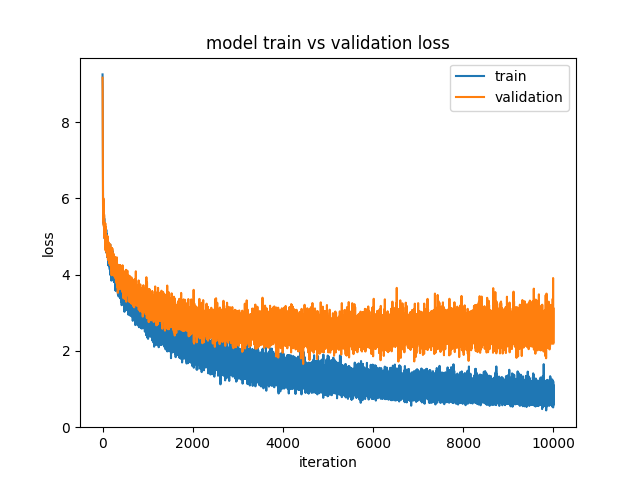
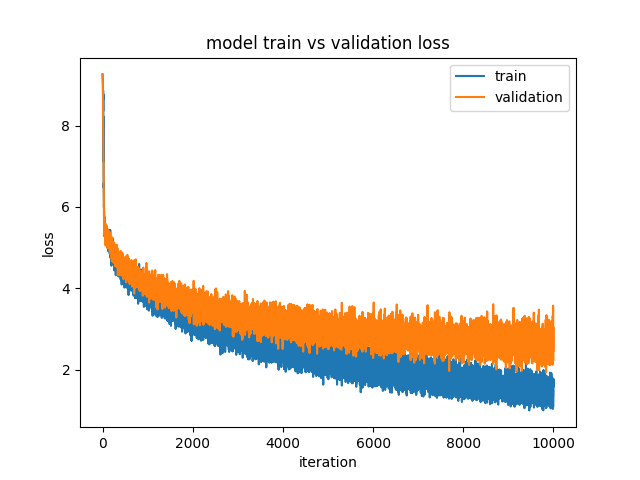
Kleine weitere Anpassungen am Logging

diff --git a/run_experiment.py b/run_experiment.py
@@ -27,6 +27,10 @@ if __name__ == '__main__':
     src_reversed = False
     limit = None
     trimming = False
+    #len_filter = [1, 10]
+    len_filter = None
+
+    voc_all = True
 
     cleaned_file = "%s-%s_cleaned" % (src_lang, trg_lang) + "_rude" if not exp_contraction else "%s-%s_cleaned" % (
         src_lang, trg_lang) + "_full"
@@ -40,16 +44,22 @@ if __name__ == '__main__':
         pairs = read_lines(os.path.join(start_root, DATA_DIR), FILENAME)
         pairs, path = preprocess_pipeline(pairs, cleaned_file, exp_contraction) #data/prepro/eng-deu_cleaned_full.pkl
 
-
     print("Sample from data:")
     print(random.choice(pairs))
+
+    if voc_all:
+        # build vocabularies based on all data set (test set included)
+        src_sents = [item[0] for item in pairs]
+        trg_sents = [item[1] for item in pairs]
 
     limit = 50000
 
     if limit:
         pairs = pairs[:limit]
 
-    train_set, val_set, test_set = split_data(pairs)
+    pairs = filter_pairs(pairs, len_tuple=len_filter)
+
+    train_set, val_set, test_set = split_data(pairs, seed=40)
 
     print("Data in train set:", len(train_set))
     print("Data in val set:", len(val_set))
@@ -59,9 +69,11 @@ if __name__ == '__main__':
     print("Building vocabularies...")
     train_data = train_set+val_set
 
-    # Build vocabularies based on dataset
-    src_sents = [item[0] for item in train_data]
-    trg_sents = [item[1] for item in train_data]
+
+    if voc_all is None:
+        # Build vocabularies based on train set
+        src_sents = [item[0] for item in train_data]
+        trg_sents = [item[1] for item in train_data]
 
     max_src_l = max_length(src_sents)
     max_trg_l = max_length(trg_sents)
@@ -86,13 +98,15 @@ if __name__ == '__main__':
     test_batches = [batch2TrainData(input_lang, output_lang, [random.choice(test_set) for _ in range(1)])
                         for _ in range(len(test_set))]
 
+    print("Test batches:", len(test_batches))
+
     # Configure models
     model_name = ''
     model_name += 'simple_nmt_model'+str(limit) if limit else 'simple_nmt_model_full'
     hidden_size = 512
-    encoder_n_layers = 2
-    decoder_n_layers = 2
-    batch_size = 64
+    encoder_n_layers = 1
+    decoder_n_layers = 1
+    batch_size = 128
     input_size = input_lang.num_words
     output_size = output_lang.num_words
     embedding_size = 512
@@ -108,10 +122,10 @@ if __name__ == '__main__':
     print(encoder)
     print(decoder)
 
-    clip = 1.0
+    clip = None
     teacher_forcing_ratio = 0.3
     learning_rate = 0.001 #0.0001
-    decoder_learning_ratio = 2.0 #5.0
+    decoder_learning_ratio = 1.0 #5.0
     n_iteration = 15000
     print_every = 100
     save_every = 500
@@ -150,15 +164,21 @@ if __name__ == '__main__':
             hf.write(model_name)
             hf.write("\nDirectory:\n")
             hf.write(str(directory))
-            hf.write("\n Number of samples:")
-            hf.write(str(len(pairs)))
-            hf.write("\n Max src length %s" % max_src_l)
-            hf.write("\n Max trg length %s" % max_trg_l)
-            hf.write("\n Learning rate: %s" % str(learning_rate))
-            hf.write("\nAverage validation loss:\n")
-            hf.write(str(val_loss))
-            hf.write("\nTest loss:")
-            hf.write(str(test_loss))
+            hf.write("\n Number of samples: %s" %str(len(pairs)))
+            if voc_all:
+                hf.write("\nVocabularies built on all dataset")
+            else:
+                hf.write("\nVocabularies built only on the train set")
+            hf.write("\nSource vocabulary: %s" % str(input_lang.num_words))
+            hf.write("\nTarget vocabulary: %s" % str(output_lang.num_words))
+            hf.write("\nMax src length %s" % max_src_l)
+            hf.write("\nMax trg length %s" % max_trg_l)
+            hf.write("\nLearning rate: %s" % str(learning_rate))
+            hf.write("\nBatch size: %s" % str(batch_size))
+            hf.write("\nEmbedding size: %s" % str(embedding_size))
+            hf.write("\nHidden size: %s" % str(hidden_size))
+            hf.write("\nAverage validation loss: %s" %str(val_loss))
+            hf.write("\nTest loss: %s" %str(test_loss))
             hf.write("\nTraining iterations:")
             hf.write(str(n_iteration))
             hf.write("\n Training duration:")
@@ -169,7 +189,7 @@ if __name__ == '__main__':
 
     print("Plotting results...")
     try:
-        plot_training_results(model_name, train_history, val_history, SAVE_DIR, FILENAME, decoder_n_layers, hidden_size,
+        plot_training_results(model_name, train_history, val_history, SAVE_DIR, FILENAME, decoder_n_layers, embedding_size, hidden_size,
                           live_show=False)
         print("Plots stored in %s" %SAVE_DIR)
 

diff --git a/experiment/train_eval.py b/experiment/train_eval.py
@@ -90,12 +90,13 @@ def train(input_variable, lengths, target_variable, mask, max_target_len, trg_le
             print_losses.append(mask_loss.item() * nTotal)
             n_totals += nTotal
 
-        # Clip gradients: gradients are modified in place
-    _ = torch.nn.utils.clip_grad_norm_(encoder.parameters(), clip)
-    _ = torch.nn.utils.clip_grad_norm_(decoder.parameters(), clip)
 
     # Perform backpropatation
     loss.backward()
+    if clip:
+        # Clip gradients: gradients are modified in place
+        _ = torch.nn.utils.clip_grad_norm_(encoder.parameters(), max_norm=clip)
+        _ = torch.nn.utils.clip_grad_norm_(decoder.parameters(), max_norm=clip)
 
     # Adjust model weights
     encoder_optimizer.step()
@@ -254,7 +255,8 @@ def trainIters(model_name, src_voc, tar_voc, train_pairs, val_pairs, encoder, de
         layers = encoder.n_layers
         # Save checkpoint
         if (iteration % save_every == 0):
-            directory = os.path.join(save_dir, model_name, corpus_name, '{}-{}_{}'.format(encoder_n_layers, decoder_n_layers, encoder.hidden_size))
+            directory = os.path.join(save_dir, model_name, corpus_name,
+                                     '{}-{}_{}-{}'.format(encoder_n_layers, decoder_n_layers, encoder.emb_size, encoder.hidden_size))
             if not os.path.exists(directory):
                 os.makedirs(directory)
             torch.save({
@@ -396,7 +398,7 @@ def eval_test(test_batches, encoder, decoder):
 
 #### Plot results
 
-def plot_training_results(modelname, train_history, val_history, save_dir, corpus_name, n_layers, hidden_size, live_show=False):
+def plot_training_results(modelname, train_history, val_history, save_dir, corpus_name, n_layers, embedding_size, hidden_size, live_show=False):
     """
     Plots training results
     :param modelname:
@@ -413,7 +415,7 @@ def plot_training_results(modelname, train_history, val_history, save_dir, corpu
 
 
     directory = os.path.join(save_dir, "plots", modelname, corpus_name,
-                             '{}-{}_{}'.format(n_layers, n_layers, hidden_size))
+                             '{}-{}_{}-{}'.format(n_layers, n_layers, embedding_size, hidden_size))
 
     if not os.path.isdir(directory):
         os.makedirs(directory)

diff --git a/utils/utils.py b/utils/utils.py
@@ -78,7 +78,7 @@ def maskNLLLoss(inp, target, mask):
     return loss, nTotal.item()
 
 
-def split_data(data, test_ratio=0.2):
+def split_data(data, test_ratio=0.2, seed=40):
     """
     Splits data into training, validation and test set.
     Train set: 70%
@@ -92,7 +92,7 @@ def split_data(data, test_ratio=0.2):
     num_samples = len(data)
     test_range = int(num_samples*test_ratio) #test dataset 0.1
     train_range = num_samples-test_range
-    random.seed(30)
+    random.seed(seed) #30
     random.shuffle(data)
 
     data_set = data[:train_range]

diff --git a/translate.py b/translate.py
@@ -23,7 +23,8 @@ def translate(start_root):
     experiment_path = [line.strip() for line in lines if "experiment/" in line]
     print(experiment_path)
     #  print(experiment_path[0])
-    hidden_size = int(experiment_path[0].split("_")[-1])
+    hidden_size = "".join(experiment_path[0].split("_")).split("-")
+    hidden_size = int(hidden_size[-1])
     # print(hidden_size)
     checkpoints = [f for f in os.listdir(os.path.join(start_root, experiment_path[0])) if
                    os.path.isfile(os.path.join(start_root, experiment_path[0], f))]
